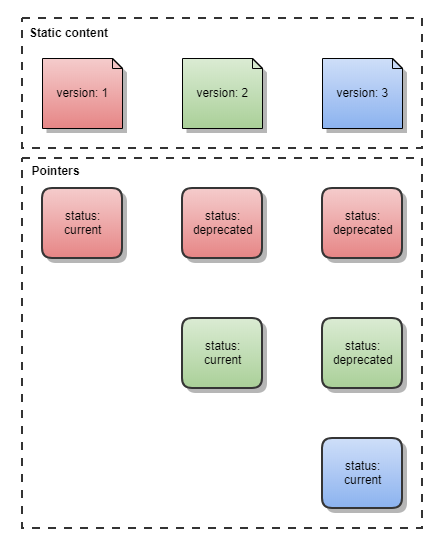
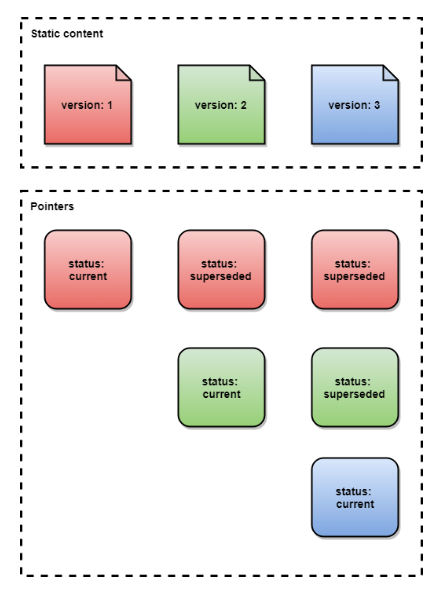
NRLS-212

diff --git a/pages/pointers/pointer_maintenance.md b/pages/pointers/pointer_maintenance.md
@@ -9,29 +9,12 @@ summary: NRL Pointer Maintenance
 
 {% include important.html content="This site is under active development by NHS Digital and is intended to provide all the technical resources you need to successfully develop the NRL API. This project is being developed using an agile methodology so iterative updates to content will be added on a regular basis." %}
 
-{% include warning.html content="
-The current version of the NRL API does not give Providers the ability to update the properties of an existing Pointer. 
-The only property that can be modified is the status and that is done in a very specific way only allowing a Provider to replace one 
-pointer with another [Managing Pointers](pointer_maintenance.html#managing-pointers-to-static-content).
-<br/>
-This means that a number of scenarios outlined below around updating a Pointer can not yet be achieved though the NRL intends to support these features in a future release. 
-<br/>
-Specifically the NRL API does not currently support- <br/>
-
-- The following status property transitions:<br/>
-
-	&emsp; o **current** to **entered-in-error**<br/>
-	&emsp; o **entered-in-error** to **current**<br/>
-	&emsp; o **current** to **superseded** where the current Pointer is not being replaced.<br/>
-	
-- Modification of other properties<br/>
-" %}
-
 ## Pointer Maintenance ##
 
-The NRL allows a Provider to perform three actions in relation to Pointers –
+The NRL allows a Provider to perform four actions in relation to Pointers –
 - Create – results in the storage of a brand new Pointer in NRL
-- Update – modify the content of an existing Pointer in NRL
+- Update – modify the status of an existing Pointer in NRL
+- Replace – Allows you to deprecate a pointer, marking it as superseded, and create a new Pointer in the NRL
 - Delete – remove an existing Pointer from NRL. This Pointer will no longer appear in search results
 
 A Pointer’s main role is to refer to another entity; some kind of content (static or dynamic). 
@@ -43,7 +26,7 @@ So when considering Pointer maintenance we should really think in terms of the m
 
 ## Creation of a new Pointer ##
 
-The rules around when a Pointer is created will vary from Provider to Provider because different business process’ 
+The rules around when a Pointer is created will vary from Provider to Provider because different business processes 
 will be at play within their organisations. Having said that there is some general guidance that can be given around when creation 
 of a new pointer is appropriate.
 As discussed in the [concepts section](overview_concepts.html) the NRL has the concept of a static and dynamic content in relation to what the 
@@ -56,7 +39,7 @@ Static content is typically content that undergoes version control. When a chang
 a new version is created. This new version builds on the original and contains the modified content. Once the changes are complete this new version is then considered immutable and becomes the current version replacing the previous one.
 Rather than NRL holding one Pointer that references the current version of the contents it is recommended that Providers add a new Pointer for each version of their content. 
 What constitutes a new version is left up to the Providers as it is difficult to prescribe a global versioning policy.
-What is expected however is that there is only over one current version of a Pointer for a set of content. 
+What is expected however is that there is only ever one current version of a Pointer for a set of content. 
 
 
 <img src="images/pointers/pointer_maintenance1.png">
@@ -97,11 +80,13 @@ If the Provider realises that the Pointer is simply not valid then it should be 
 If the Provider does want to delete the Pointer it should be done as soon as possible after creation to limit exposure to Consumers. 
 However even in this circumstance the Provider should consider marking the Pointer as entered in error.
 
+{% include important.html content="It is important to note that when a Pointer is deleted from the NRL it is marked as &quot;inactive&quot; as opposed to being removed completely. This is commonly known as a &quot;soft delete&quot;. Once a Pointer is deleted the Pointer can no longer be viewed or edited by any Consumer or Provider." %}
+
 ## Update of an existing Pointer ##
 
 As noted in the create section typically update will be invoked on a Pointer when the Provider needs to change its status from 
-current to one of superseded or entered in error. In general Providers should refrain from changing any of the other properties on an 
-existing Pointer instead preferring to create a new one. 
+current to one of superseded or entered in error. Providers can only change the status property on an 
+existing Pointer and should supersede an existing pointer where any other attributes need to change. 
 
 ## Managing Pointers to static content ##
 
@@ -118,27 +103,23 @@ The way that this is achieved is through the combined use of three properties on
 <img src="images/pointers/pointer_maintenance2.png">
 
 ***Figure 2: How Pointers versions are maintained in NRL. Each time a new Pointer version is needed the create message should 
-reference the master identifier of the Pointer that is to be superceded***
+reference the master identifier or logical id of the Pointer that is to be superseded***
 
-When the first version of a Pointer is created the Provider supplies it’s status as current and it assigns a master identifier 
-value (value is 1 in figure 2). Note that master identifier is optional however if Provider’s wish to use the NRL to maintain a chain of 
-Pointer versions then master identifier will be required. In this first version of the Pointer the related pointers collection will be empty.
+When the first version of a Pointer is created the Provider supplies it’s status as current and can optionally assign a master identifier value (value is 1 in figure 2). In this first version of the Pointer the related pointers collection will be empty.
 
 The end result of asking the NRL to create that Pointer is illustrated on the left-hand side of figure 2 above – a Pointer has been persisted with a Provider issued master identifier and a status of current.
 
 At some point in the future the Provider determines that a new version of the Pointer should be created perhaps because the static content that the original Pointer references has changed. In this case the Provider wants the end state to be that a new Pointer is created to reference the new static content and that the existing Pointer is marked as superseded.
 
-The NRL supports the transition to the end state above by leveraging the related pointers property in conjunction with master identifier and status. The Provider creates a new Pointer where the status is marked as current, it has a master identifier value (value is 2 in figure 2) that is different from the existing Pointer’s master identifier (see Pointer identity for more detail) and the related pointers collection is populated with the master identifier of the existing Pointer (value is 1 in figure 2). 
+The NRL supports the transition to the end state above by leveraging the related pointers property in conjunction with the status property and the master identifier or logical id property. The Provider creates a new Pointer where the status is marked as current, it has a master identifier value (value is 2 in figure 2) that is different from the existing Pointer’s master identifier (see Pointer identity for more detail) and the related pointers collection is populated with the master identifier of the existing Pointer (value is 1 in figure 2). 
 
-Upon receipt of this Pointer the NRL takes the resolves the related Pointer and sets its status to superseded. Once this has been successfully completed the NRL persists the new pointer. The end result is that the NRL is now in the state described above; two Pointers exist where one has been superseded by the other. This pattern of superseding can be repeated indefinitely by a Provider leading to multiple superseded versions of a Pointer but there is only ever one current version.
+Upon receipt of this Pointer the NRL resolves the related Pointer and sets its status to superseded. Once this has been successfully completed the NRL persists the new pointer. The end result is that the NRL is now in the state described above; two Pointers exist where one has been superseded by the other. This pattern of superseding can be repeated indefinitely by a Provider leading to multiple superseded versions of a Pointer but there is only ever one current version.
 
 
 ## Pointer lineage ##
 A consequence of creating a relationship between Pointers where one superseded another is that a lineage of Pointers is created. 
 
 In this context lineage is used to describe the line of descendants of an original Pointer. This line in effect describes each of the different versions of the content that each Pointer references. It’s a view of the evolution of the content with the oldest content being replaced by newer content.
-
-The related Pointer element of a given Pointer can be used to find its direct ancestor and once that ancestor is found if it has a related Pointer element then that relationship can be resolved and so on until the entire lineage is built up.
 
 <img src="images/pointers/pointer_lineage.png">
 
